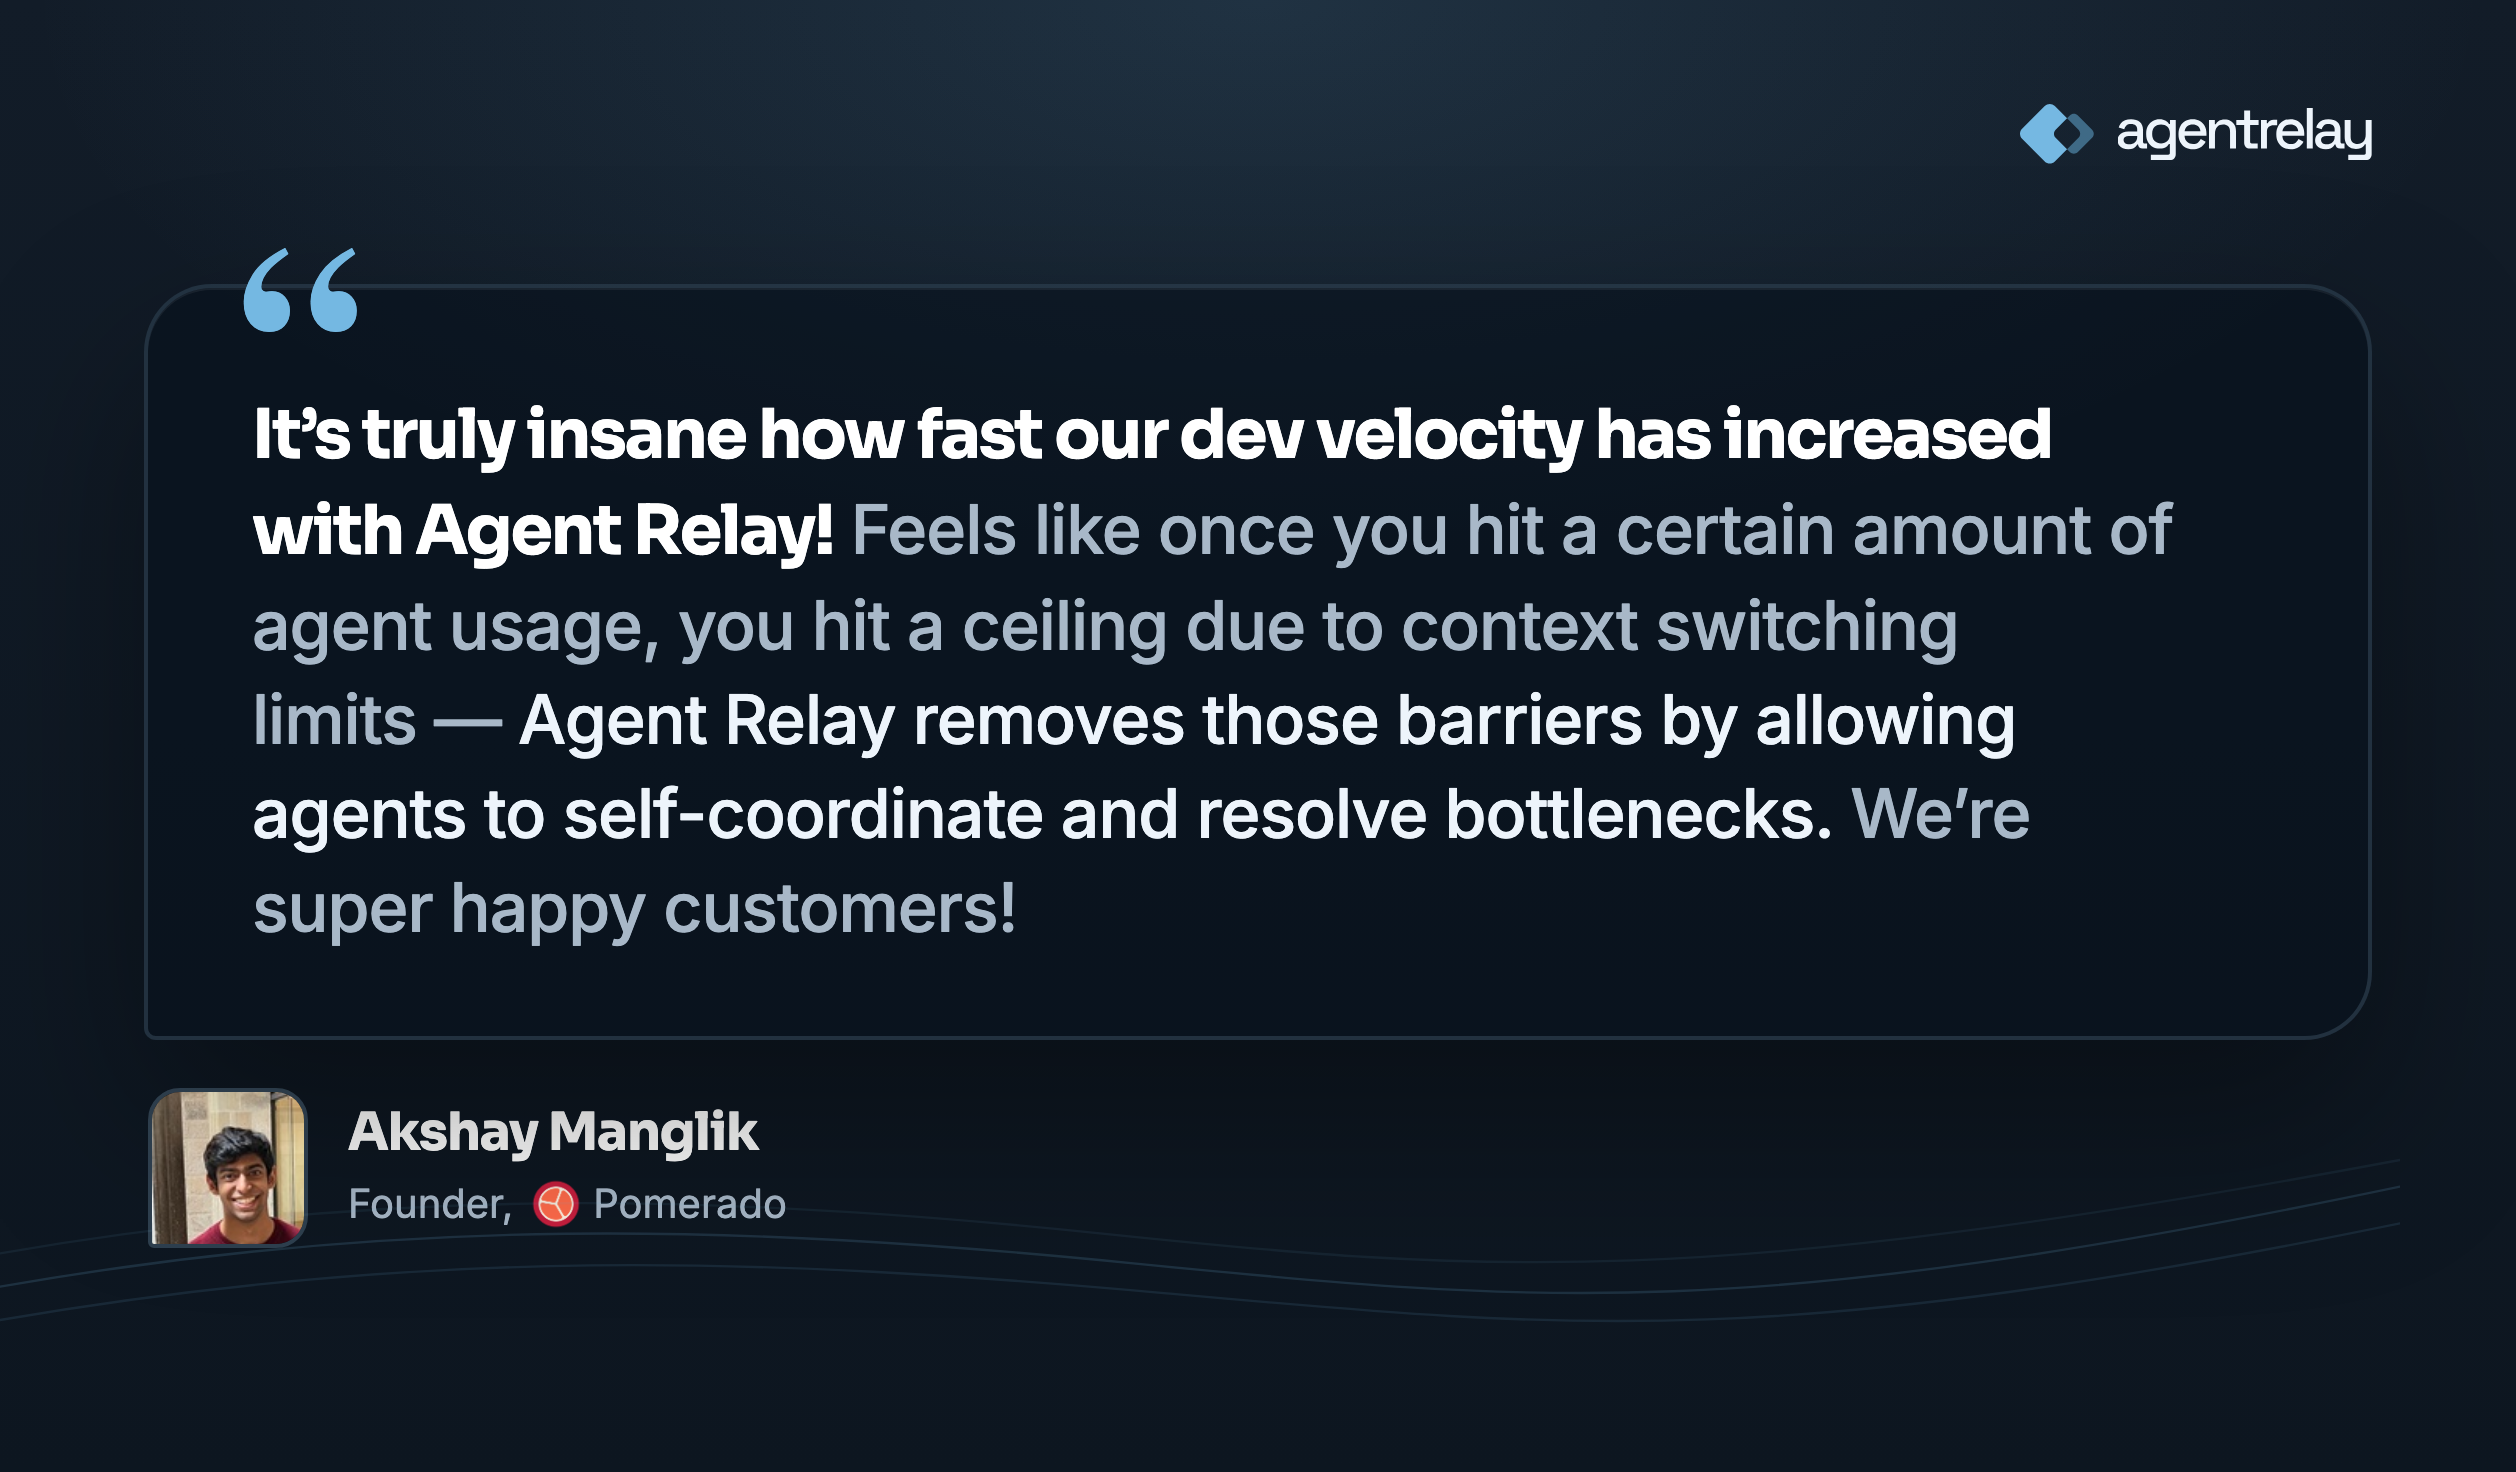
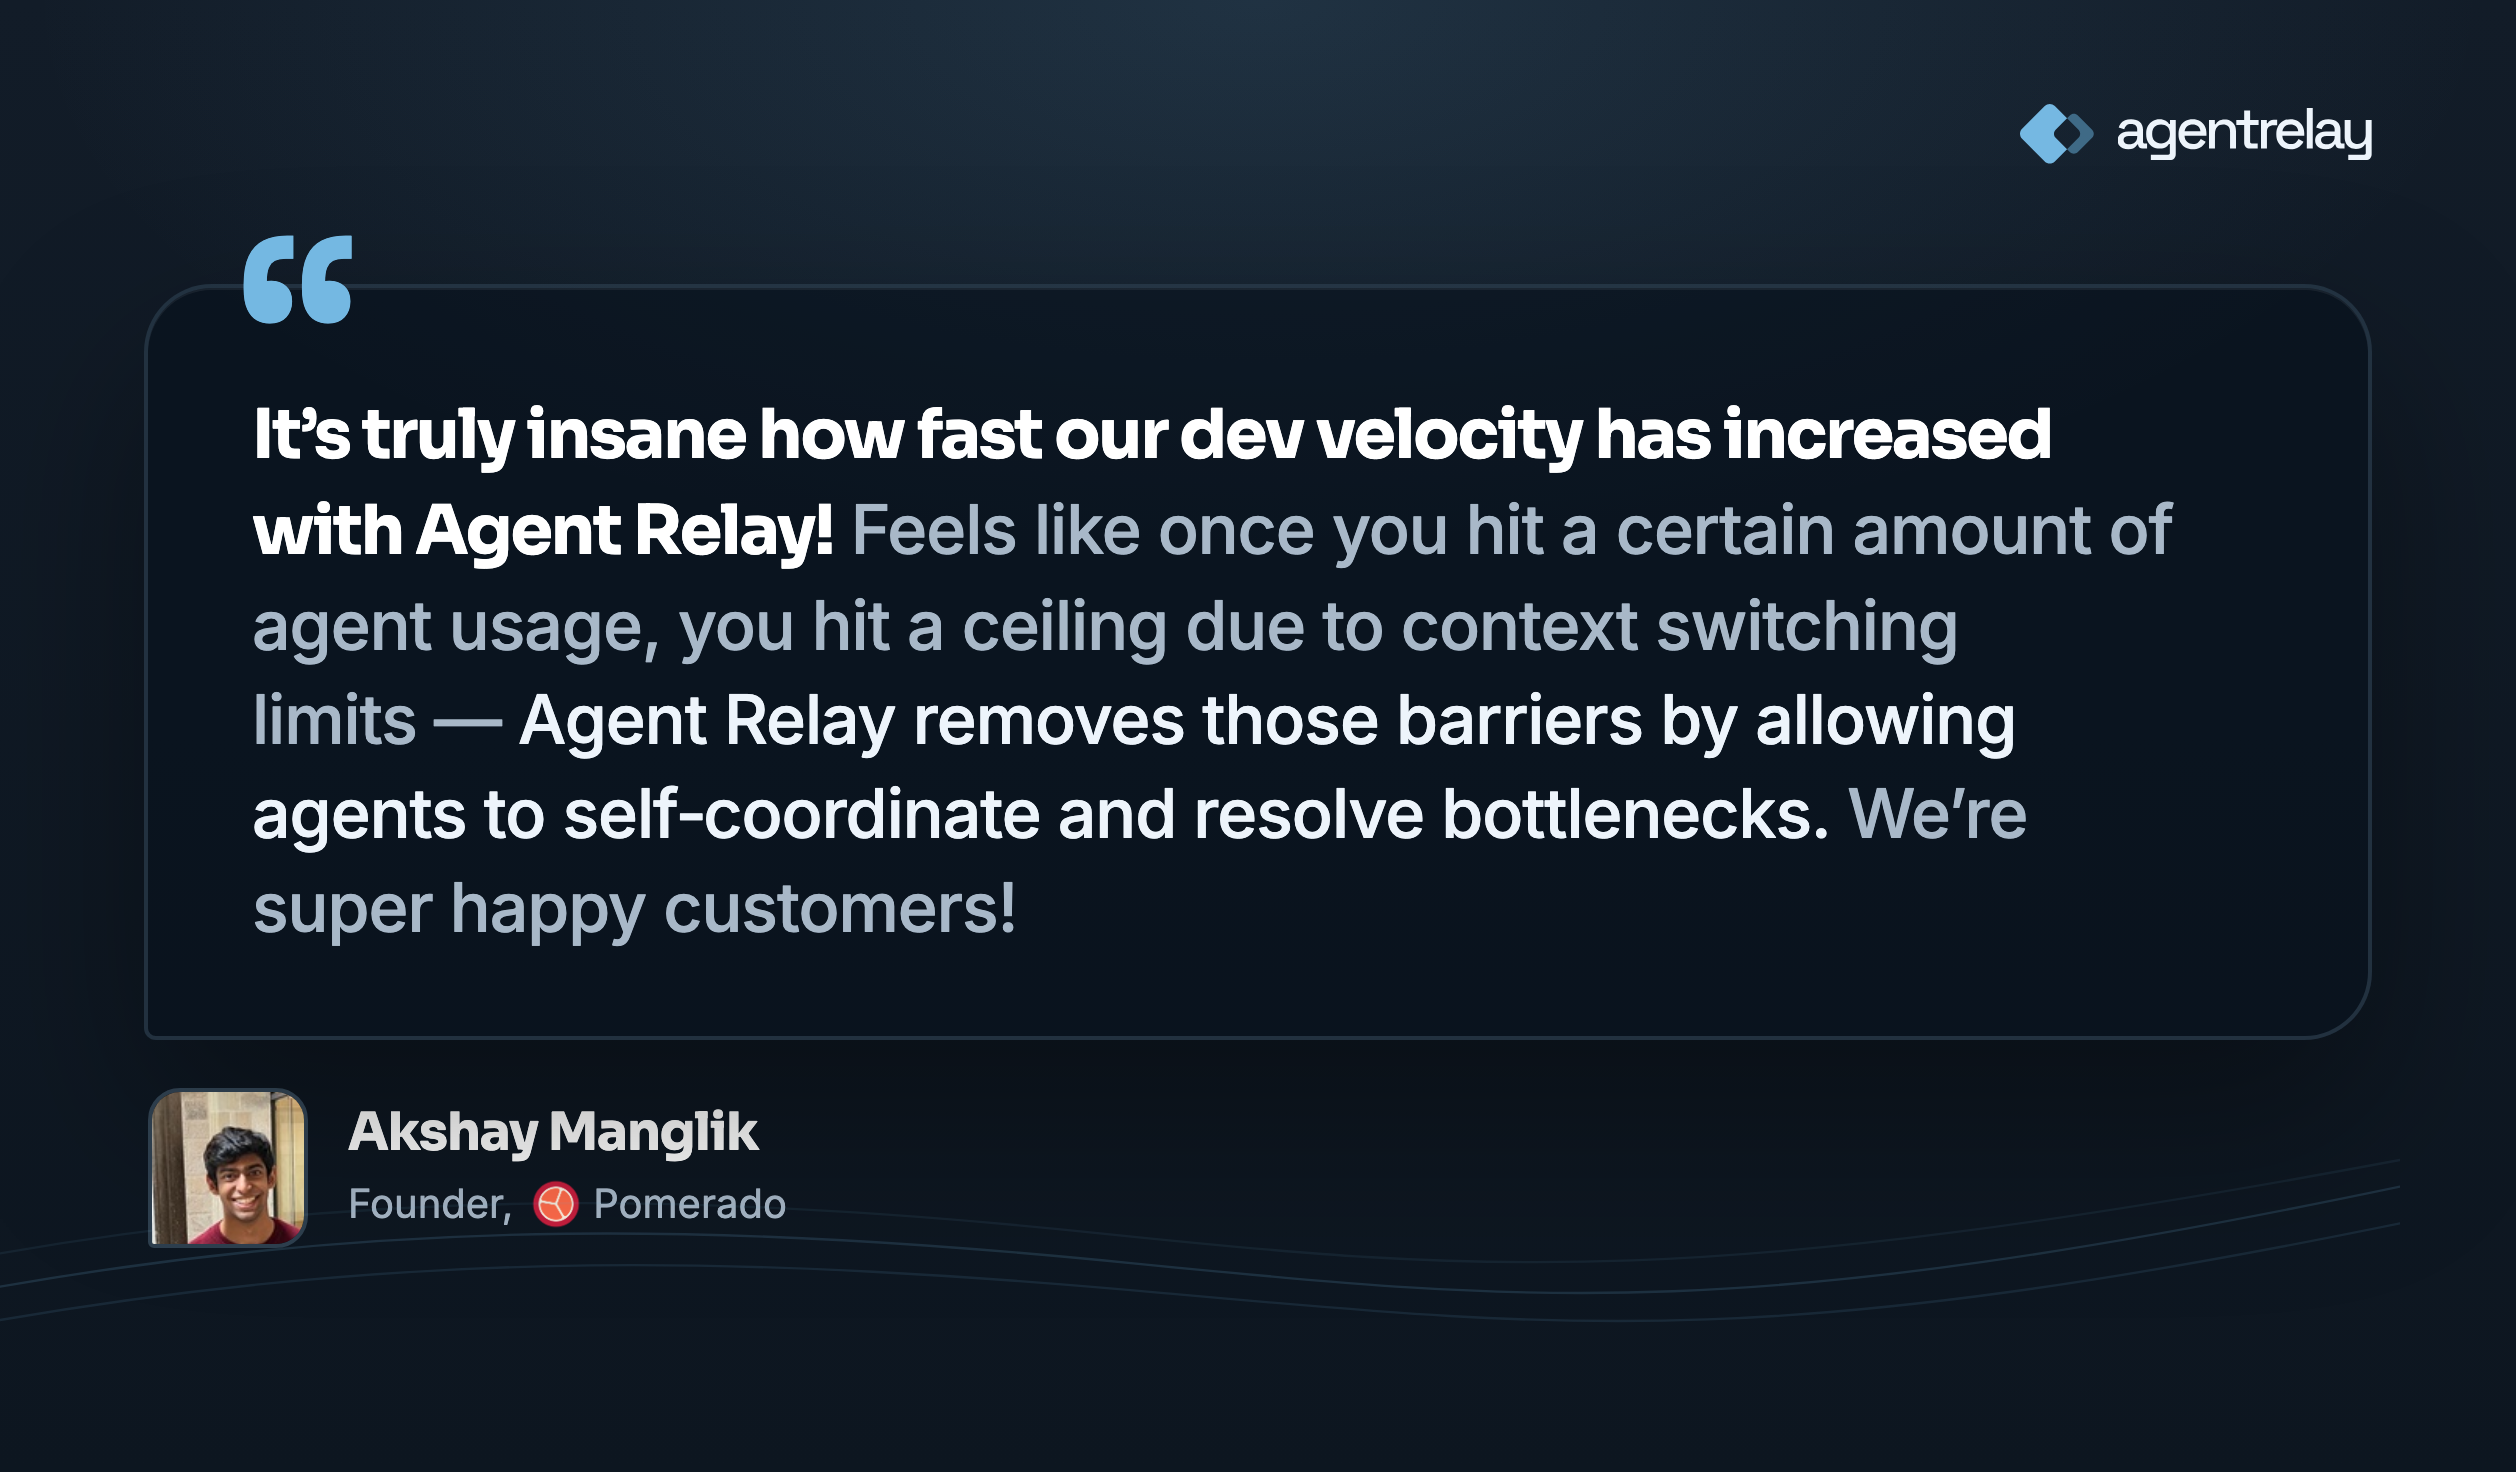
Subset brand fonts with curly quotes and non-breaking characters; emphasize Serg's post

Changed region(s): [[0.279, 0.5312, 0.806, 0.5625], [0.093, 0.1562, 0.155, 0.2188]]

diff --git a/web/lib/customer-quotes.ts b/web/lib/customer-quotes.ts
@@ -5,8 +5,8 @@
  */
 export type QuoteSegment = {
   text: string;
-  /** `lead` is the bold opening line, `key` the brighter claim, `plain` the rest. */
-  tone: 'lead' | 'key' | 'plain';
+  /** `lead` is bold white, `key` a brighter claim, `accent` the brand-blue takeaway, `plain` the rest. */
+  tone: 'lead' | 'key' | 'accent' | 'plain';
 };
 
 export type CustomerQuote = {
@@ -54,8 +54,9 @@ export const SERG_POST: CustomerQuote = {
   avatar: '/img/customers/serg.jpg',
   post: { href: 'https://x.com/sg_HGA/status/2116514305143123972', replyingTo: '@UltraLinx' },
   segments: [
-    { tone: 'lead', text: '@agent_relay does this automatically with no workarounds.' },
-    { tone: 'plain', text: 'Highly recommend' },
+    { tone: 'plain', text: '@agent_relay does this automatically' },
+    { tone: 'lead', text: 'with no workarounds.' },
+    { tone: 'accent', text: 'Highly recommend' },
   ],
 };
 

diff --git a/web/lib/og/template.tsx b/web/lib/og/template.tsx
@@ -51,7 +51,7 @@ export type LoadedFonts = {
  * A missing glyph silently falls back to satori's default font, which would
  * break the typography, so the subset must be exhaustive for what we render.
  */
-const GLYPHS = 'ABCDEFGHIJKLMNOPQRSTUVWXYZabcdefghijklmnopqrstuvwxyz0123456789 .,:;!?\'’"#·—–-→@()/&%';
+const GLYPHS = 'ABCDEFGHIJKLMNOPQRSTUVWXYZabcdefghijklmnopqrstuvwxyz0123456789 .,:;!?\'’“”"#·—–-→@()/&%\u00a0\u2011';
 
 /**
  * Fetch a Google Font for embedding into the OG image.

diff --git a/web/components/homepage/CustomerQuotes.tsx b/web/components/homepage/CustomerQuotes.tsx
@@ -5,6 +5,7 @@ import s from './customer-quotes.module.css';
 const toneClass: Record<QuoteSegment['tone'], string> = {
   lead: s.lead,
   key: s.key,
+  accent: s.accent,
   plain: s.plain,
 };
 

diff --git a/web/components/homepage/customer-quotes.module.css b/web/components/homepage/customer-quotes.module.css
@@ -48,6 +48,11 @@
   color: rgba(237, 244, 251, 0.88);
 }
 
+.accent {
+  color: #74b8e2;
+  font-weight: 600;
+}
+
 .who {
   display: flex;
   align-items: center;
